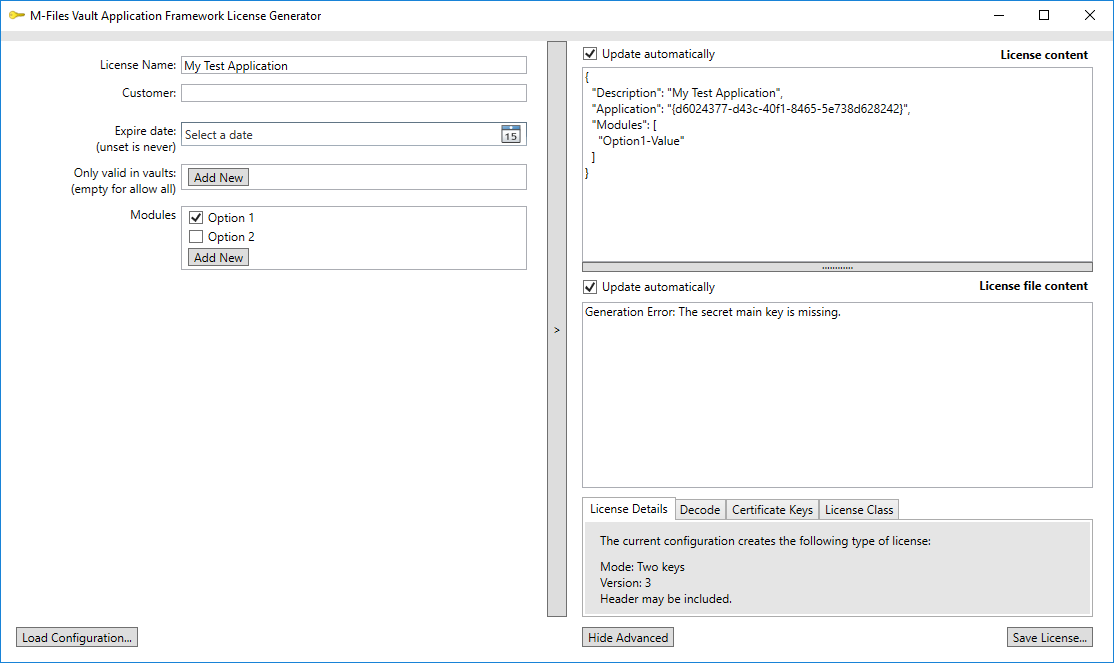
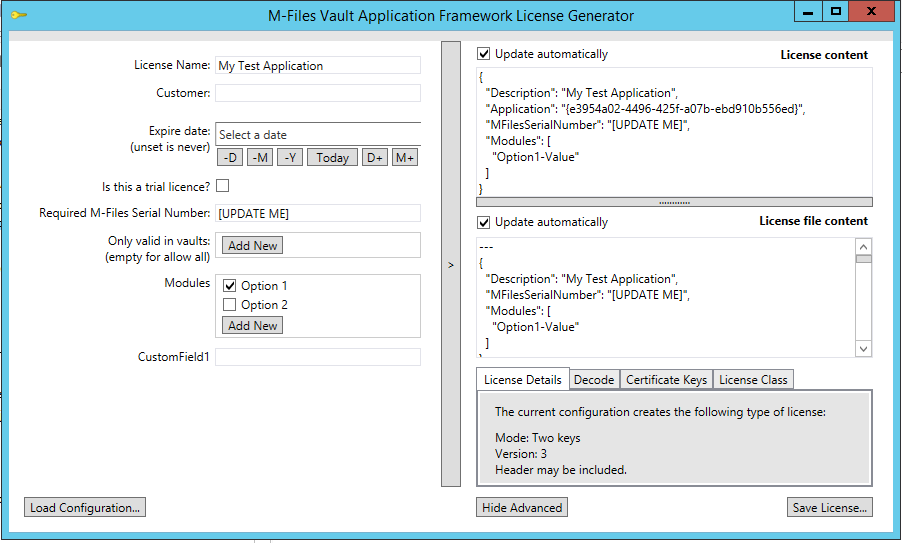
Fixed some typos on the licensing page. Updated the licence generator screenshot. Included a "tips and tricks" for changing the keys configuration file.

Changed region(s): [[0.0, 0.0, 1.0, 1.0], [0.1552, 0.6483, 0.2483, 0.6777]]

diff --git a/Frameworks/Vault-Application-Framework/Licensing/index.md b/Frameworks/Vault-Application-Framework/Licensing/index.md
@@ -215,7 +215,7 @@ When the vault is restarted, our license check code is re-executed, and a note i
 
 ### Other Built-In Fields
 
-The `LicenseContentBas`e base class, used when parsing the license content by the Vault Application Framework, contains a number of other built-in members which you can use; simply define the member in the `.mflconf` file to enable the functionality.
+The `LicenseContentBase` base class, used when parsing the license content by the Vault Application Framework, contains a number of other built-in members which you can use; simply define the member in the `.mflconf` file to enable the functionality.
 
 #### Informational
 
@@ -351,3 +351,25 @@ In this case, ensure that the various keys are correctly set, and that the corre
 
 Vault Application Framework must be set with the public key of the main key, and the secret/private key of the secondary key.
 {:.note}
+
+### Altering the key file to use
+
+The default `.mflconf` file contains an instruction to load/use keys from `sample.Keys.conf`.  This can be altered by changing the `KeyFile` element within the `.mflconf` file:
+
+From
+``` json
+{
+  // ...
+  "KeyFile": "sample.Keys.conf",
+  // ...
+}
+```
+
+To
+``` json
+{
+  // ...
+  "KeyFile": "anotherfile.Keys.conf",
+  // ...
+}
+```

diff --git a/Frameworks/Vault-Application-Framework/Versions/index.md b/Frameworks/Vault-Application-Framework/Versions/index.md
@@ -74,4 +74,4 @@ To upgrade a VAF 1.0 application to 2.0, the following steps need to be taken.
 	* Resolve any namespace issues, for example:
 		* `MFIdentifier` (and other [configuration attributes](/Frameworks/Vault-Application-Framework/Attributes/Configuration/)) have moved from `MFiles.VAF.Common` to `MFiles.VAF.Configuration`.
 
-At this point the VAF application can be altered to support 2.0 features such as [icensing](../Licensing) and [integration into the M-Files 2018 Administration Configuration interface](../Configuration).
+At this point the VAF application can be altered to support 2.0 features such as [licensing](../Licensing) and [integration into the M-Files 2018 Administration Configuration interface](../Configuration).
